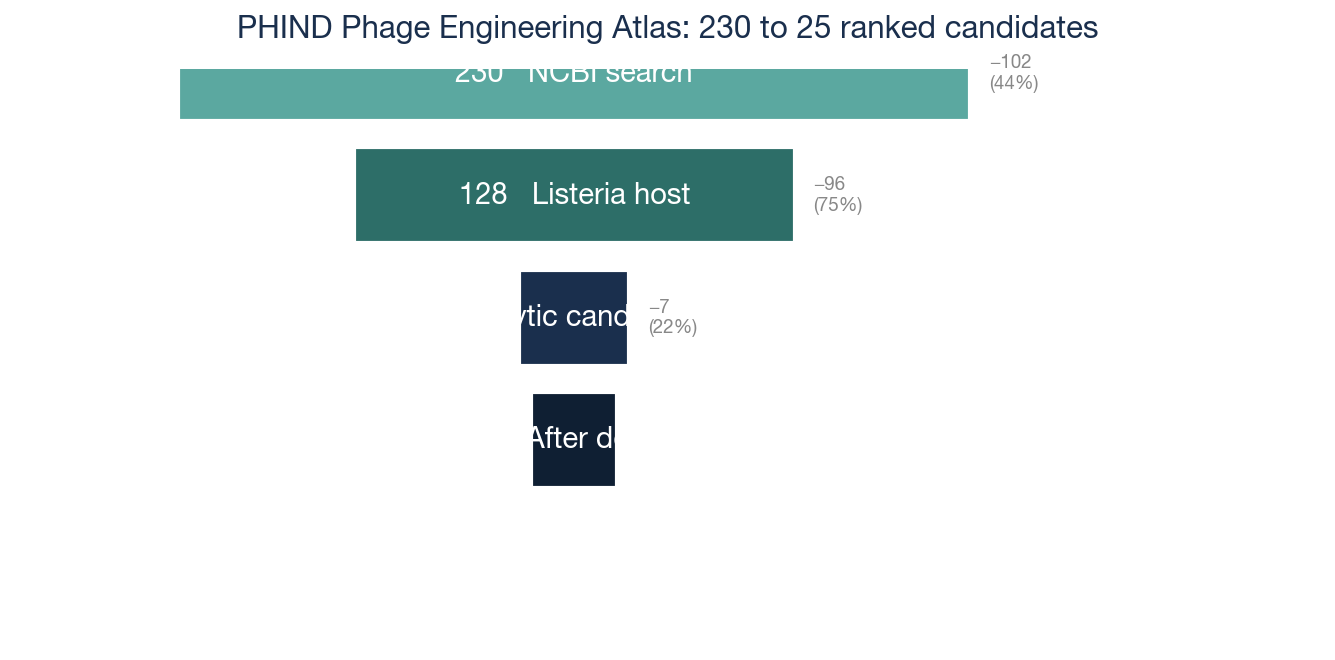
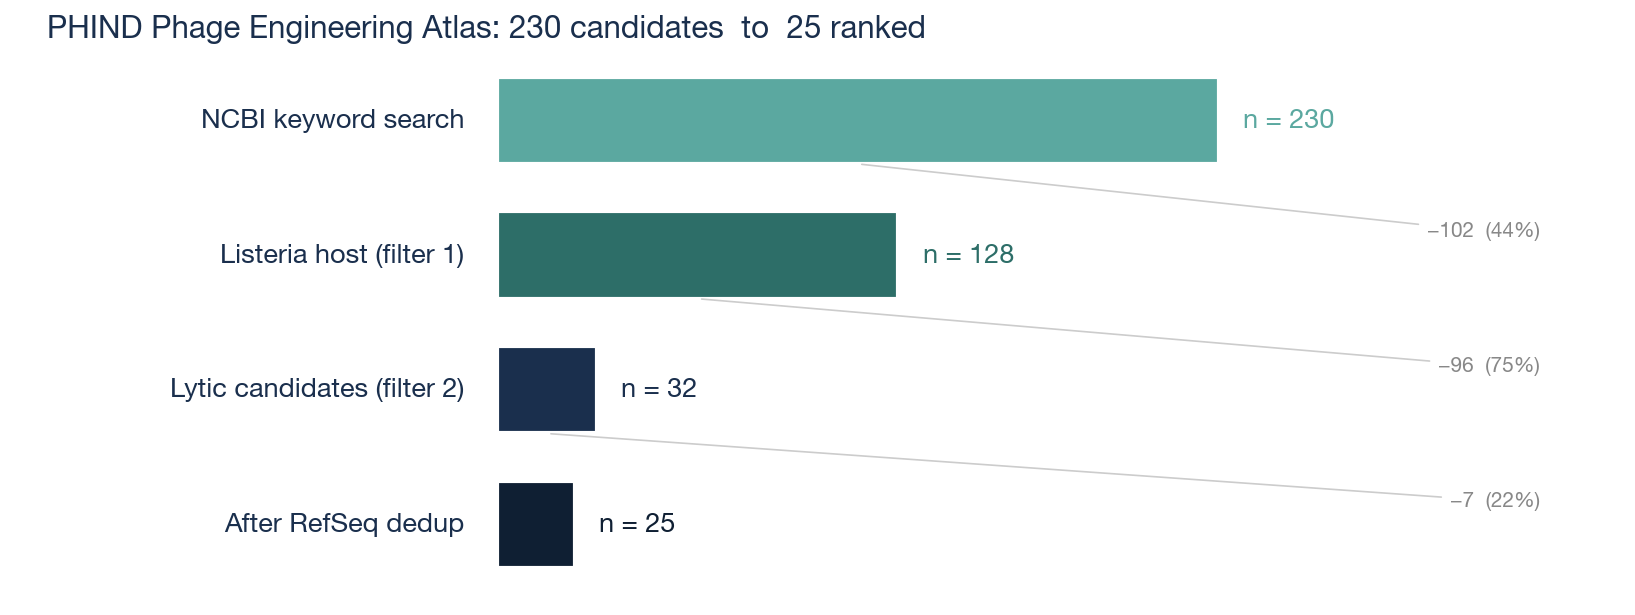
Fix funnel figure: move labels outside bars to prevent clipping
The pipeline funnel figure was unreadable when a stage's bar was too
narrow to fit centered text (the lytic-candidate and dedup stages
were only 14% and 11% of the max width).

Redesign the layout so:
  - Stage labels live to the LEFT of every bar (right-aligned)
  - Counts (n = ...) live immediately to the RIGHT of every bar
  - Loss annotations sit further right with thin connector lines
  - Title swaps the unsupported "→" glyph for "to"

Result: every bar's content is readable at any width.

Also: .gitignore now excludes results/pharokka/ raw outputs (curated
annotation CSV at results/pharokka_annotations.csv is still tracked).

diff --git a/docs/make_readme_figures.py b/docs/make_readme_figures.py
@@ -20,44 +20,63 @@ plt.rcParams["font.sans-serif"] = ["Helvetica Neue", "Arial", "DejaVu Sans"]
 
 
 # =====================================================================
-# Figure 1: Pipeline funnel
+# Figure 1: Pipeline funnel (labels outside the bars, never clipped)
 # =====================================================================
-fig, ax = plt.subplots(figsize=(9, 4.5), dpi=150)
+fig, ax = plt.subplots(figsize=(11, 4.2), dpi=150)
 fig.patch.set_facecolor("white")
 
-stages = ["NCBI search", "Listeria host", "Lytic candidates", "After dedup"]
+stages = ["NCBI keyword search", "Listeria host (filter 1)",
+          "Lytic candidates (filter 2)", "After RefSeq dedup"]
 values = [230, 128, 32, 25]
 colors = [TEAL, TEAL_DARK, NAVY, "#0F1F33"]
 
+# x-axis grid: bars start at x=0.30 and grow rightward proportionally.
+# Labels go on the LEFT (x<0.30), counts on the RIGHT (after the bar),
+# loss annotations even further right.
 max_val = max(values)
+LEFT_BAR = 0.30
+BAR_SPAN = 0.45     # bars never exceed 0.45 of figure width
+BAR_HEIGHT = 0.55
+ROW_GAP = 0.85
+
 for i, (stage, value, color) in enumerate(zip(stages, values, colors)):
-    width = value / max_val * 0.85
-    left = (1 - width) / 2
+    y = -i * ROW_GAP
+    width = value / max_val * BAR_SPAN
     rect = mpatches.Rectangle(
-        (left, i * -0.7), width, 0.55,
+        (LEFT_BAR, y), width, BAR_HEIGHT,
         facecolor=color, edgecolor="white", linewidth=2,
     )
     ax.add_patch(rect)
+
+    # Label on the LEFT (right-aligned to bar start)
     ax.text(
-        0.5, i * -0.7 + 0.275, f"{value}   {stage}",
-        ha="center", va="center", fontsize=14,
-        color="white", fontweight="bold",
+        LEFT_BAR - 0.02, y + BAR_HEIGHT / 2, stage,
+        ha="right", va="center", fontsize=13, color=NAVY, fontweight="bold",
     )
+    # Count immediately AFTER the bar
+    ax.text(
+        LEFT_BAR + width + 0.015, y + BAR_HEIGHT / 2, f"n = {value}",
+        ha="left", va="center", fontsize=13, color=color, fontweight="bold",
+    )
+    # Loss annotation FURTHER right (only between stages)
     if i < len(stages) - 1:
         loss = values[i] - values[i + 1]
         loss_pct = 100 * loss / values[i]
-        ax.text(
-            1 - left + 0.02, i * -0.7 + 0.275,
-            f"−{loss}\n({loss_pct:.0f}%)",
-            ha="left", va="center", fontsize=9, color="#888888", style="italic",
+        ax.annotate(
+            f"−{loss}  ({loss_pct:.0f}%)",
+            xy=(LEFT_BAR + width / 2, y),
+            xytext=(0.95, y - ROW_GAP / 2),
+            ha="right", va="center",
+            fontsize=10, color="#888888", style="italic",
+            arrowprops=dict(arrowstyle="-", color="#cccccc", lw=0.8),
         )
 
-ax.set_xlim(-0.1, 1.3)
-ax.set_ylim(-3.0, 0.3)
+ax.set_xlim(0, 1.0)
+ax.set_ylim(-(len(stages) - 1) * ROW_GAP - 0.2, 0.6)
 ax.axis("off")
 ax.set_title(
-    "PHIND Phage Engineering Atlas: 230 to 25 ranked candidates",
-    fontsize=15, color=NAVY, pad=15, fontweight="bold",
+    "PHIND Phage Engineering Atlas: 230 candidates  to  25 ranked",
+    fontsize=15, color=NAVY, pad=15, fontweight="bold", loc="left", x=0.02,
 )
 plt.tight_layout()
 plt.savefig(IMG_DIR / "pipeline_funnel.png", bbox_inches="tight", facecolor="white")